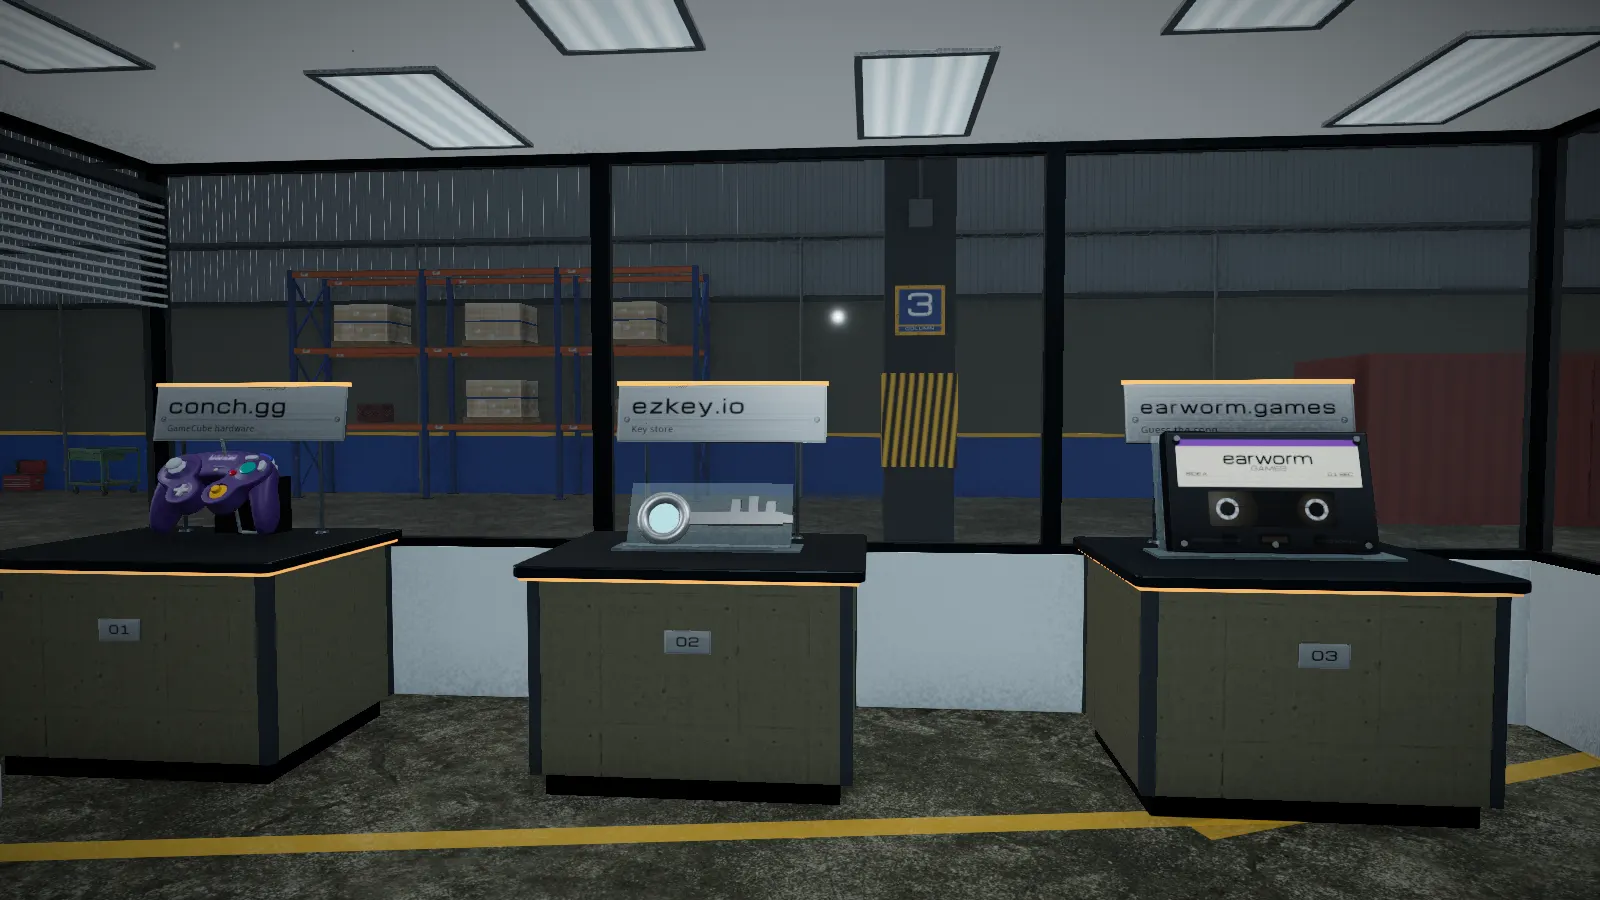
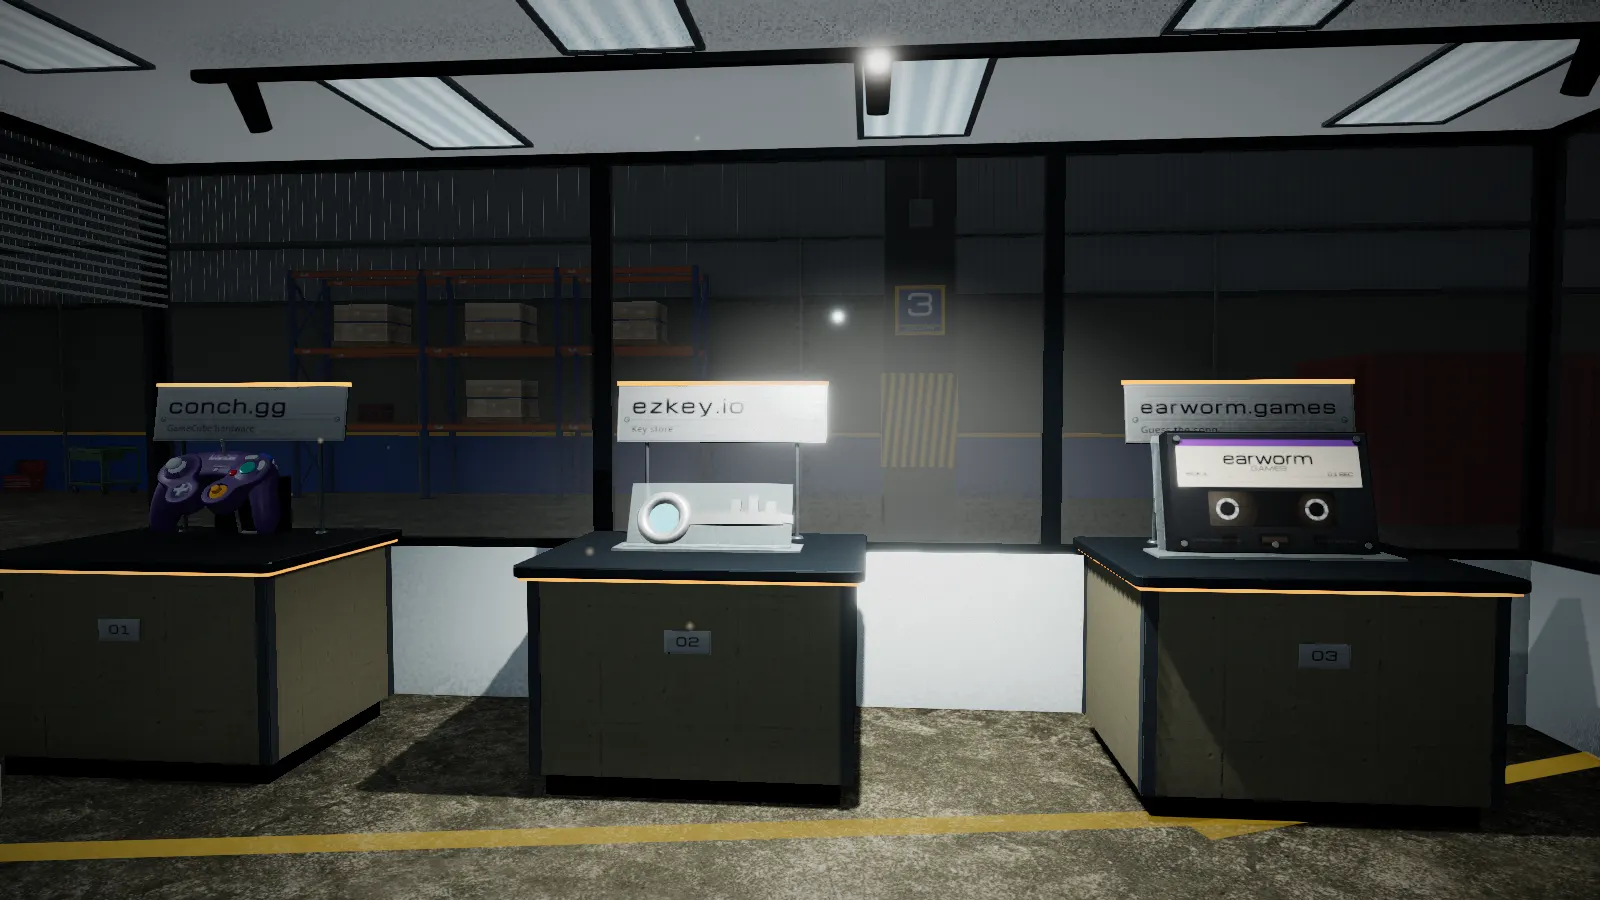
Light each room as its own place after hours
One hemisphere fill at 1.3 and an environment reflection at 0.14 lit every
room to the same even grey, so no subject had anything darker to stand on.
Each room now has its own grade: a low fill in its own colour, reflection
strength, haze and exposure, eased across doorways as uniforms so nothing
recompiles. The clean lab stays the one bright room. In the dispatch office a
gallery track over the plinths carries the stop's key light and casts, in
place of the working spot over the run to the docks.

diff --git a/src/scenes/walk/stages/fabrication/lighting.ts b/src/scenes/walk/stages/fabrication/lighting.ts
@@ -9,7 +9,8 @@ import { beacon } from '../../labs/props';
 import { lightShaft } from '../../labs/fixtures';
 import { dust, sparks } from '../../labs/particles';
 import type { Placement } from '../../rig';
-import { X0, X1, Z0, Z1, H, SODIUM, COLUMNS } from './layout';
+import { X0, X1, Z0, Z1, H, SODIUM, COLUMNS, OFFICE } from './layout';
+import { mergeGeometries } from 'three/examples/jsm/utils/BufferGeometryUtils.js';
 
 export interface Lighting { lights: Placement[]; update(dt: number): void; dispose(): void }
 
@@ -21,9 +22,14 @@ export const FIXTURES: [number, number][] = FIXTURE_ROWS.flatMap((z) => FIXTURE_
 /** The fitting's underside, where its spot hangs from. */
 export const FIXTURE_Y = H - 0.55;
 
-/** The two fittings that carry the working spots: the middle fitting of the second row, over the
- *  approach to the office, and the middle of the fourth, over the run to the docks. */
-export const WORKING: [number, number][] = [[-3, 4], [-3, -20]];
+/** The fitting that carries the working spot: the middle of the second row, over the approach to
+ *  the office. The fourth row's used to carry one over the run to the docks, which the sodium lamps
+ *  light anyway, and that spot now hangs on the exhibit track. */
+export const WORKING: [number, number][] = [[-3, 4]];
+/** A gallery track on the office ceiling over the plinth row, x and z of its middle and its length
+ *  along z. Its spot is the stop's key: the three products are the lit thing in the bay, and the
+ *  hall behind them falls away. */
+export const TRACK = { x: OFFICE.x - OFFICE.w / 2 + 1.6, y: OFFICE.h - 0.12, z: OFFICE.z - 0.4, len: 5.6 };
 /** Sodium lamps over the two dock shutters, x and z, hung at LAMP_Y. */
 export const SODIUM_LAMPS: [number, number][] = [[2, -27], [9, -27]];
 export const LAMP_Y = 6.5;
@@ -37,8 +43,11 @@ export const LAMP_Y = 6.5;
 export function lights(): Placement[] {
   const out: Placement[] = [];
   for (const [x, z] of WORKING) out.push({ kind: 'spot', position: [x, FIXTURE_Y, z], target: [x, 0, z], color: 0xd9e8ee, intensity: 190, distance: 50, angle: Math.PI / 2.7, penumbra: 0.8, decay: 1.7 });
+  // Wide and soft from 2 m over the plinth tops, so one cone covers all three and still falls off
+  // before the glass. It casts, so each product throws a shadow on its own cap.
+  out.push({ kind: 'spot', position: [TRACK.x, TRACK.y, TRACK.z], target: [TRACK.x - 0.5, 0.9, TRACK.z], color: 0xf4efe6, intensity: 45, distance: 10, angle: Math.PI / 3, penumbra: 0.95, decay: 1.6, shadow: true });
   // A tight cone from 6.5 m throws a pool the eye can find.
-  for (const [x, z] of SODIUM_LAMPS) out.push({ kind: 'spot', position: [x, LAMP_Y, z], target: [x, 0, z], color: SODIUM, intensity: 180, distance: 18, angle: Math.PI / 6, penumbra: 0.5, decay: 1.8, shadow: true });
+  SODIUM_LAMPS.forEach(([x, z], i) => out.push({ kind: 'spot', position: [x, LAMP_Y, z], target: [x, 0, z], color: SODIUM, intensity: 180, distance: 18, angle: Math.PI / 6, penumbra: 0.5, decay: 1.8, shadow: i === 0 }));
   out.push({ kind: 'point', position: [4, 8.2, Z0 + 1.4], color: 0xf2c230, intensity: 8, distance: 16, decay: 2 });
   return out;
 }
@@ -56,6 +65,22 @@ export function buildLighting({ store, tier }: StageContext, root: THREE.Group):
   // The air under the two working fittings, faintly: the bay is dark and there is dust in it, and
   // a shaft is what ties a pool on the floor to the fitting above it.
   for (const [x, z] of WORKING) root.add(place(lightShaft({ top: 1.1, bottom: 4.2, height: FIXTURE_Y - 0.3, color: 0xd9e8ee, opacity: 0.035 }), x, FIXTURE_Y, z));
+
+  // The track: a steel rail on the office ceiling and three heads along it, each turned down at its
+  // plinth, lenses lit. The one spot the rig gives it hangs from the middle.
+  const railMat = new THREE.MeshStandardMaterial({ color: 0x1c2228, roughness: 0.5, metalness: 0.6 });
+  const parts: THREE.BufferGeometry[] = [new THREE.BoxGeometry(0.05, 0.04, TRACK.len).translate(0, 0.08, 0)];
+  const lenses: THREE.BufferGeometry[] = [];
+  for (const dz of [2.6, 0, -2.6]) {
+    const can = new THREE.CylinderGeometry(0.055, 0.045, 0.2, 14).translate(0, -0.1, 0);
+    const lens = new THREE.CircleGeometry(0.045, 14).rotateX(Math.PI / 2).translate(0, -0.201, 0);
+    const turn = new THREE.Matrix4().makeRotationZ(-0.6).setPosition(0, 0.06, dz);
+    parts.push(can.applyMatrix4(turn), new THREE.BoxGeometry(0.02, 0.06, 0.02).translate(0, 0.06, dz));
+    lenses.push(lens.applyMatrix4(turn));
+  }
+  const track = new THREE.Group(); track.name = 'track';
+  track.add(new THREE.Mesh(mergeGeometries(parts), railMat), new THREE.Mesh(mergeGeometries(lenses), new THREE.MeshBasicMaterial({ color: 0xb8ae9c })));
+  root.add(place(track, TRACK.x, TRACK.y - 0.08, TRACK.z));
 
   // Sodium work lights, orange, the fabrication wing colour, one over each dock shutter. The pool
   // on the concrete is a soft sprite, additive, so it reads as light rather than as a stain.

diff --git a/src/scenes/walk/grade.ts b/src/scenes/walk/grade.ts
@@ -1,0 +1,53 @@
+import * as THREE from 'three';
+import type { StopId } from './path';
+
+/**
+ * Each room's grade: the ambient fill, the haze and the exposure it is seen through. The walk is a
+ * building after hours, so the fill is low and the room's own work lights carry the frame: one lit
+ * subject per stop, the rest falling off into haze in the room's colour. One fill at 1.3 for every
+ * room lit the whole building to the same grey, and a lit subject had nothing darker to stand on.
+ *
+ * All of these are uniforms, so a room change eases them without recompiling anything. The haze is
+ * also the background, so the void past a room's far wall is the same colour as its air.
+ */
+/** `env` is the room environment's reflection strength, which was a second fill as strong as the
+ *  hemisphere and just as even. */
+export interface Grade { sky: number; ground: number; fill: number; env: number; haze: number; density: number; exposure: number }
+
+export const GRADES: Record<StopId, Grade> = {
+  // Outside, at night. The neon and the lamp are the only light worth having.
+  booth: { sky: 0x2a3644, ground: 0x0a0d11, fill: 0.3, env: 0.05, haze: 0x080c10, density: 0.016, exposure: 1.0 },
+  // Sodium at the docks bouncing warm off the concrete, cold air overhead.
+  fabrication: { sky: 0x5b6875, ground: 0x221a12, fill: 0.4, env: 0.06, haze: 0x12110f, density: 0.014, exposure: 1.05 },
+  // The cabinets and the machines are the light. The room around them is blue and low.
+  recreation: { sky: 0x3b5178, ground: 0x0f141d, fill: 0.35, env: 0.06, haze: 0x0b111c, density: 0.018, exposure: 1.0 },
+  // Cold, and hazy down the aisle, so the far cages fade instead of stopping.
+  operations: { sky: 0x4a5f6f, ground: 0x0a0f14, fill: 0.25, env: 0.05, haze: 0x0b1218, density: 0.026, exposure: 1.0 },
+  // The clean lab is the one bright room in the building. It keeps most of its fill.
+  credentials: { sky: 0x8499a6, ground: 0x263038, fill: 0.75, env: 0.12, haze: 0x151c22, density: 0.01, exposure: 1.0 },
+  // Emergency power. Red in the shadows, one lamp on the table.
+  containment: { sky: 0x3b2c30, ground: 0x0f0808, fill: 0.25, env: 0.04, haze: 0x110a0b, density: 0.022, exposure: 1.0 },
+  // A dark control room and a desk lamp.
+  file: { sky: 0x27313b, ground: 0x0a0c0f, fill: 0.25, env: 0.05, haze: 0x07090c, density: 0.018, exposure: 1.1 },
+};
+
+/** The grade as it eases from one room's to the next. */
+export class GradeState {
+  readonly sky = new THREE.Color(); readonly ground = new THREE.Color(); readonly haze = new THREE.Color();
+  fill = 0; env = 0; density = 0; exposure = 1;
+  private readonly to = { sky: new THREE.Color(), ground: new THREE.Color(), haze: new THREE.Color() };
+
+  constructor(start: Grade) { this.snap(start); }
+
+  snap(g: Grade): void {
+    this.sky.setHex(g.sky); this.ground.setHex(g.ground); this.haze.setHex(g.haze);
+    this.fill = g.fill; this.env = g.env; this.density = g.density; this.exposure = g.exposure;
+  }
+
+  /** Eases toward `g` over about half a second: the walk crosses a doorway in about that. */
+  toward(g: Grade, dt: number): void {
+    const k = 1 - Math.exp(-4 * dt);
+    this.sky.lerp(this.to.sky.setHex(g.sky), k); this.ground.lerp(this.to.ground.setHex(g.ground), k); this.haze.lerp(this.to.haze.setHex(g.haze), k);
+    this.fill += (g.fill - this.fill) * k; this.env += (g.env - this.env) * k; this.density += (g.density - this.density) * k; this.exposure += (g.exposure - this.exposure) * k;
+  }
+}

diff --git a/src/scenes/walk/rig.ts b/src/scenes/walk/rig.ts
@@ -1,6 +1,7 @@
 import * as THREE from 'three';
 import { STOPS, roomAt, type StopId } from './path';
 import type { Tier } from './quality';
+import { GRADES, GradeState } from './grade';
 
 export interface SpotPlacement { kind: 'spot'; position: [number, number, number]; target: [number, number, number]; color: number; intensity: number; distance: number; angle: number; penumbra: number; decay?: number; shadow?: boolean }
 export interface PointPlacement { kind: 'point'; position: [number, number, number]; color: number; intensity: number; distance: number; decay?: number }
@@ -93,6 +94,9 @@ export class LightRig {
   private hemi: THREE.HemisphereLight;
   private group = new THREE.Group();
   private stop: StopId | null = null;
+  /** The room's grade, eased across doorways. The hemisphere is applied here, and the scene reads
+   *  the haze and exposure off it after each update. */
+  readonly grade = new GradeState(GRADES.booth);
   readonly lightCount: number;
 
   constructor(private scene: THREE.Scene, private size: RigSize, private readonly shadows: boolean) {
@@ -111,6 +115,7 @@ export class LightRig {
     // Ambient fill for every room. Scene-wide and unshadowed, low enough that a lit room still reads
     // as its own lit room.
     this.hemi = new THREE.HemisphereLight(0x6d7f8f, 0x1a2530, 1.3); this.group.add(this.hemi);
+    this.applyGrade();
     this.lightCount = size.spots + size.points + 1;
   }
 
@@ -124,6 +129,7 @@ export class LightRig {
       const assigned = assignSlots(this.slots.map((s) => s.target), composeSet(this.rooms, stop), this.size, this.shadows);
       this.slots.forEach((s, i) => { s.target = assigned[i]; });
     }
+    this.grade.toward(GRADES[stop], dt); this.applyGrade();
     for (const s of this.slots) {
       // Fade out toward a change, snap, fade in. A slot with nothing to show fades to black and stays.
       if (s.current !== s.target) {
@@ -132,6 +138,10 @@ export class LightRig {
       } else if (s.current) s.level = damp(s.level, 1, 6, dt);
       this.apply(s);
     }
+  }
+
+  private applyGrade(): void {
+    this.hemi.color.copy(this.grade.sky); this.hemi.groundColor.copy(this.grade.ground); this.hemi.intensity = this.grade.fill;
   }
 
   private snap(s: Slot): void {

diff --git a/tests/unit/fabrication-lighting.test.ts b/tests/unit/fabrication-lighting.test.ts
@@ -1,6 +1,6 @@
 import { describe, expect, it } from 'vitest';
 import { ROOM_BUDGET, checkBudget } from '../../src/scenes/walk/rig';
-import { lights, FIXTURES, FIXTURE_Y, SODIUM_LAMPS, LAMP_Y, WORKING } from '../../src/scenes/walk/stages/fabrication/lighting';
+import { lights, FIXTURES, FIXTURE_Y, SODIUM_LAMPS, LAMP_Y, WORKING, TRACK } from '../../src/scenes/walk/stages/fabrication/lighting';
 import { X0, X1, Z0, Z1 } from '../../src/scenes/walk/stages/fabrication/layout';
 import { DISPATCH_ROWS } from '../../src/scenes/walk/stages/fabrication/boards';
 
@@ -23,6 +23,8 @@ describe('the loading bay lighting', () => {
     ];
     for (const l of placed) {
       if (l.kind !== 'spot') continue;
+      // The exhibit track's spot hangs from the track and is aimed across at the plinths.
+      if (l.position[0] === TRACK.x && l.position[1] === TRACK.y && l.position[2] === TRACK.z) continue;
       const under = fittings.some(([x, y, z]) => Math.abs(l.position[0] - x) < 0.05 && Math.abs(l.position[1] - y) < 0.05 && Math.abs(l.position[2] - z) < 0.05);
       expect(under, `spot at ${l.position.join(',')} hangs from nothing`).toBe(true);
       // Straight down: a fitting throws its light under itself.

diff --git a/src/scenes/walk/scene.ts b/src/scenes/walk/scene.ts
@@ -42,7 +42,7 @@ export async function mountWalk(canvas: HTMLCanvasElement, opts: WalkOptions): P
 
   const scene = new THREE.Scene();
   scene.background = new THREE.Color(0x0e161e);
-  scene.fog = new THREE.FogExp2(0x0e161e, 0.012);
+  const fog = new THREE.FogExp2(0x0e161e, 0.012); scene.fog = fog;
   const camera = new THREE.PerspectiveCamera(55, 1, 0.1, 150);
 
   // Signage is drawn to a canvas, and canvas text does not wait for a webfont. Kick the load off
@@ -246,6 +246,8 @@ export async function mountWalk(canvas: HTMLCanvasElement, opts: WalkOptions): P
     current = damp(current, target, 8, dt);
     cameraAt(current, cam); camera.position.copy(cam.position); camera.lookAt(cam.target);
     rig.update(current, dt);
+    fog.color.copy(rig.grade.haze); fog.density = rig.grade.density; (scene.background as THREE.Color).copy(rig.grade.haze);
+    renderer.toneMappingExposure = rig.grade.exposure; scene.environmentIntensity = rig.grade.env;
     grey.update(current, dt); for (const s of built.values()) s.update(current, dt);
     hoverFx.update(dt);
     if (post) post.render(dt); else renderer.render(scene, camera);

diff --git a/tests/unit/grade.test.ts b/tests/unit/grade.test.ts
@@ -1,0 +1,21 @@
+import { describe, expect, it } from 'vitest';
+import { GRADES, GradeState } from '../../src/scenes/walk/grade';
+import { STOPS } from '../../src/scenes/walk/path';
+
+describe('room grades', () => {
+  it('grades every stop', () => { for (const s of STOPS) expect(GRADES[s.id], s.id).toBeDefined(); });
+  it('keeps the fill low enough that a room is lit by its own lights', () => {
+    for (const s of STOPS) expect(GRADES[s.id].fill, s.id).toBeLessThanOrEqual(0.8);
+    // The clean lab is the one bright room.
+    const brightest = STOPS.reduce((a, s) => (GRADES[s.id].fill > GRADES[a.id].fill ? s : a));
+    expect(brightest.id).toBe('credentials');
+  });
+  it('eases toward the next room rather than jumping', () => {
+    const g = new GradeState(GRADES.booth);
+    g.toward(GRADES.credentials, 1 / 60);
+    expect(g.fill).toBeGreaterThan(GRADES.booth.fill);
+    expect(g.fill).toBeLessThan(GRADES.credentials.fill);
+    for (let i = 0; i < 600; i++) g.toward(GRADES.credentials, 1 / 60);
+    expect(g.fill).toBeCloseTo(GRADES.credentials.fill, 3);
+  });
+});
